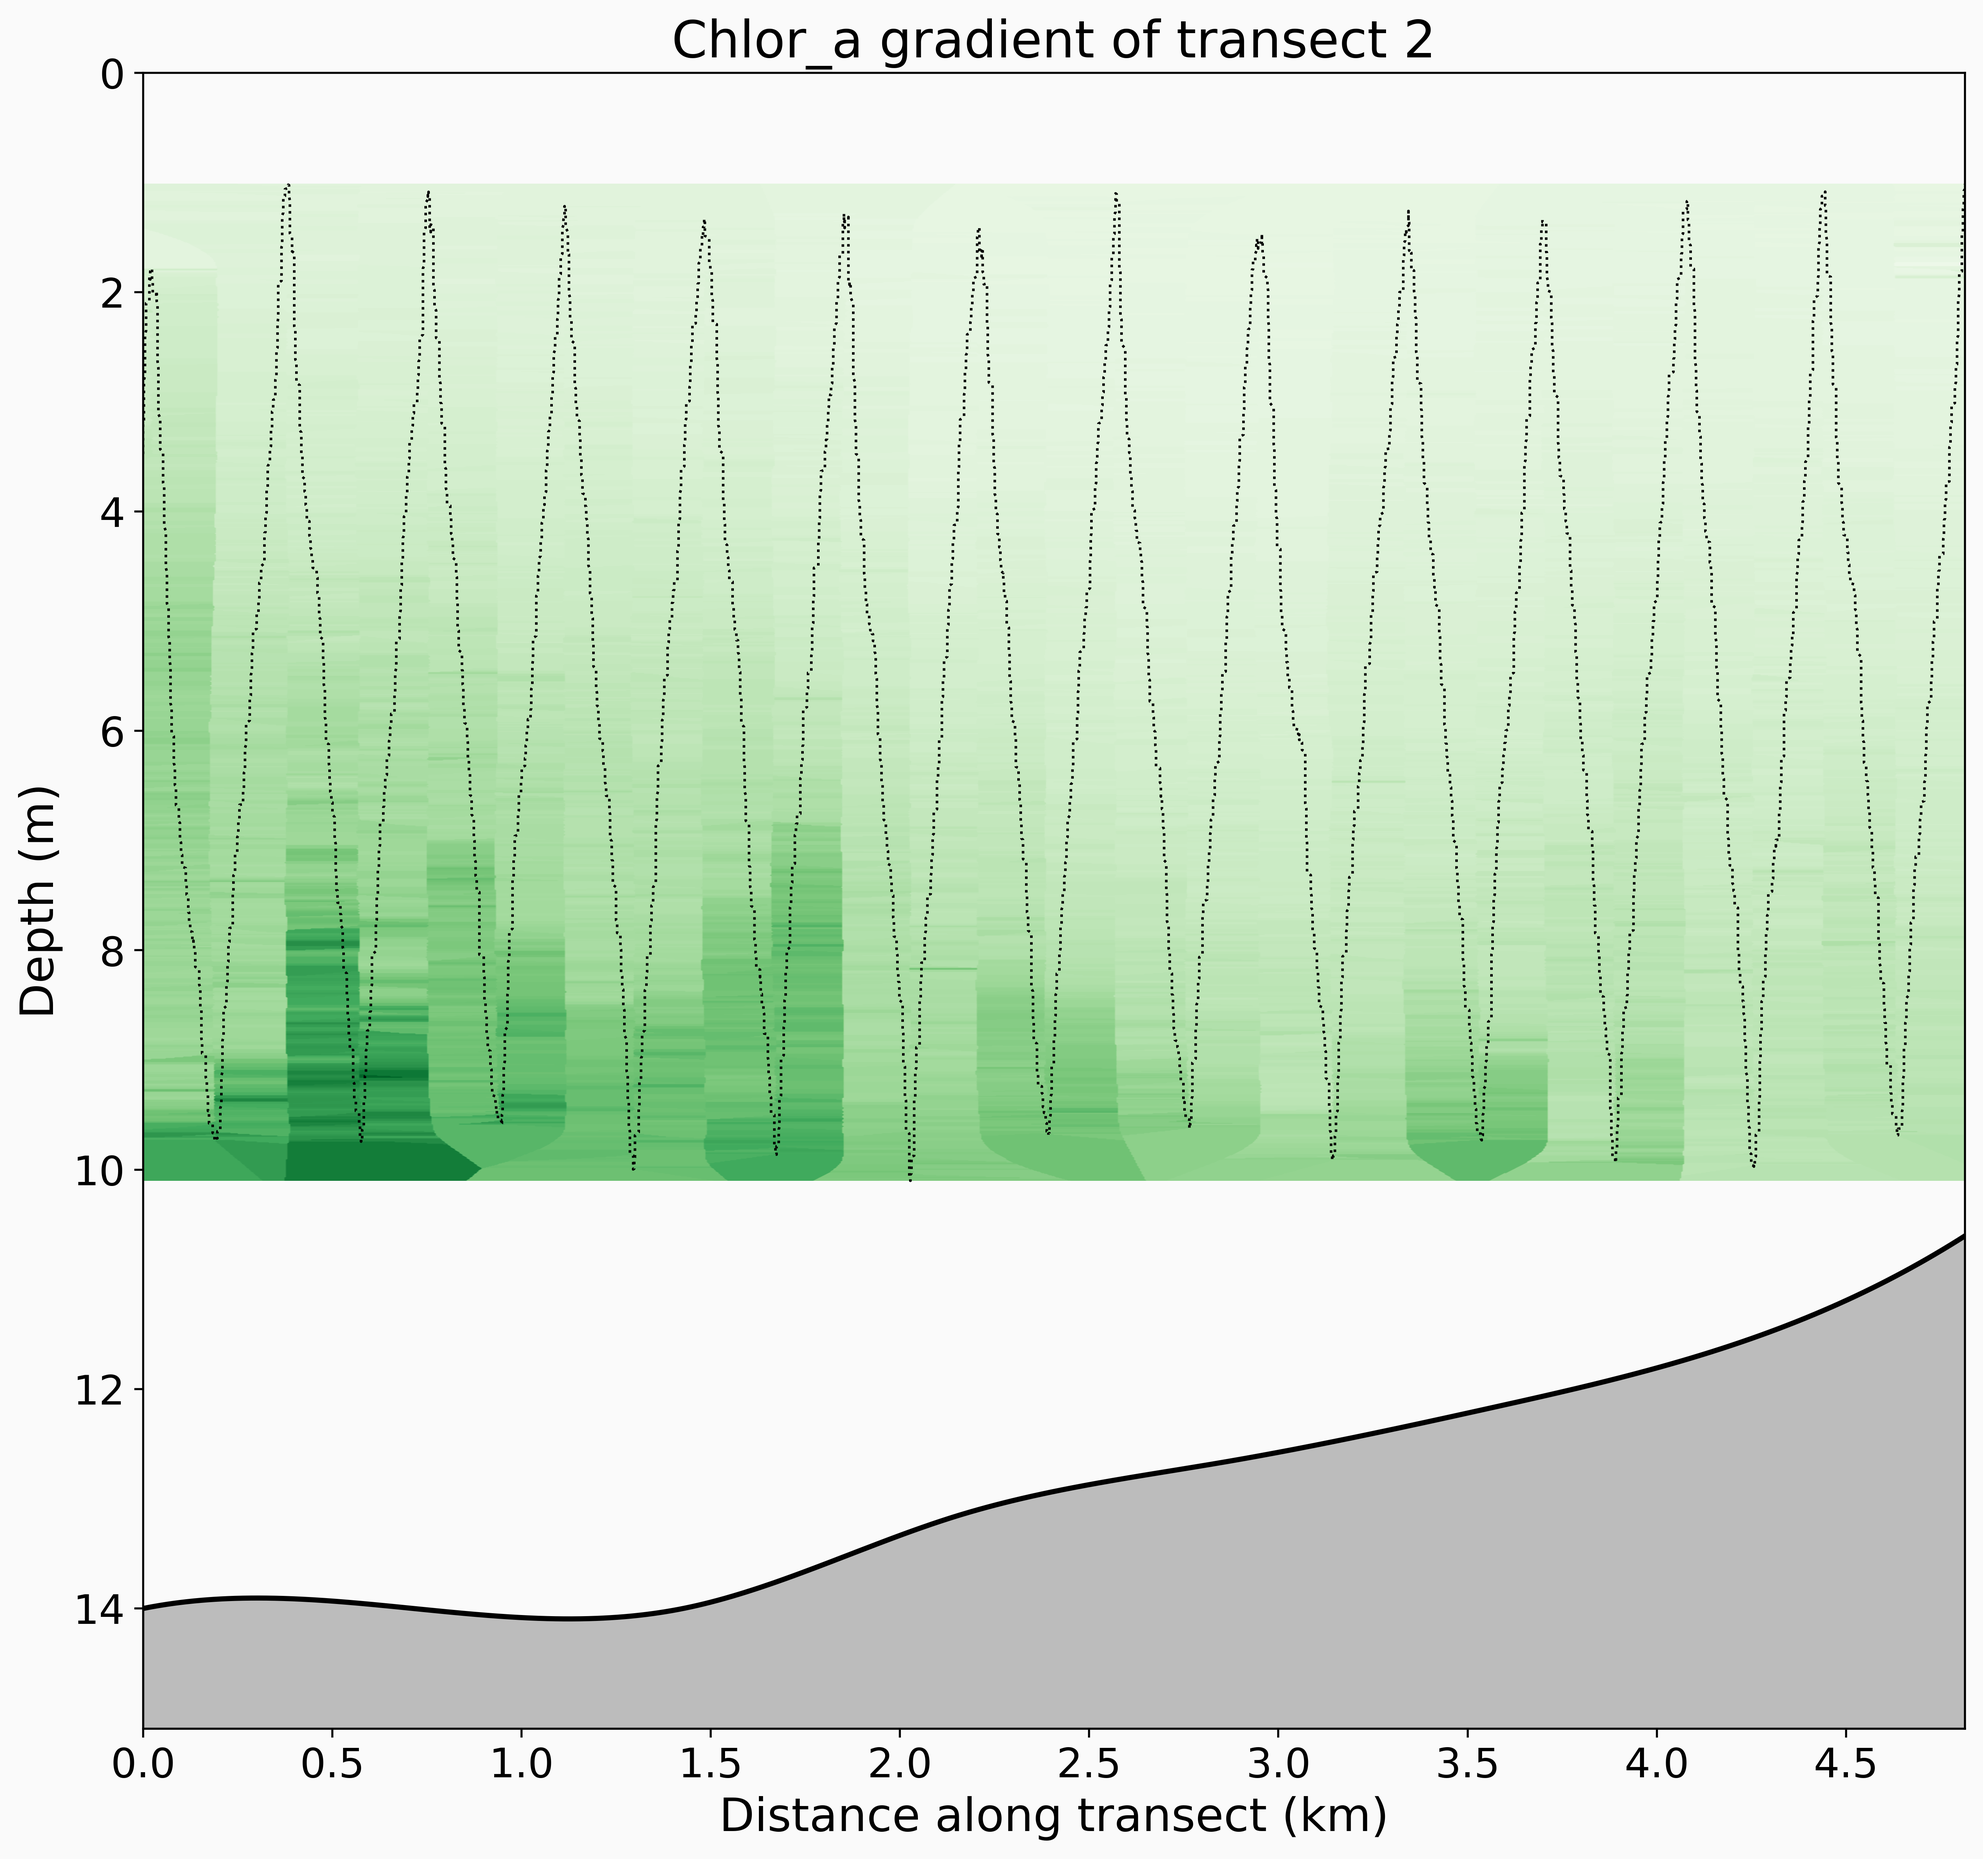
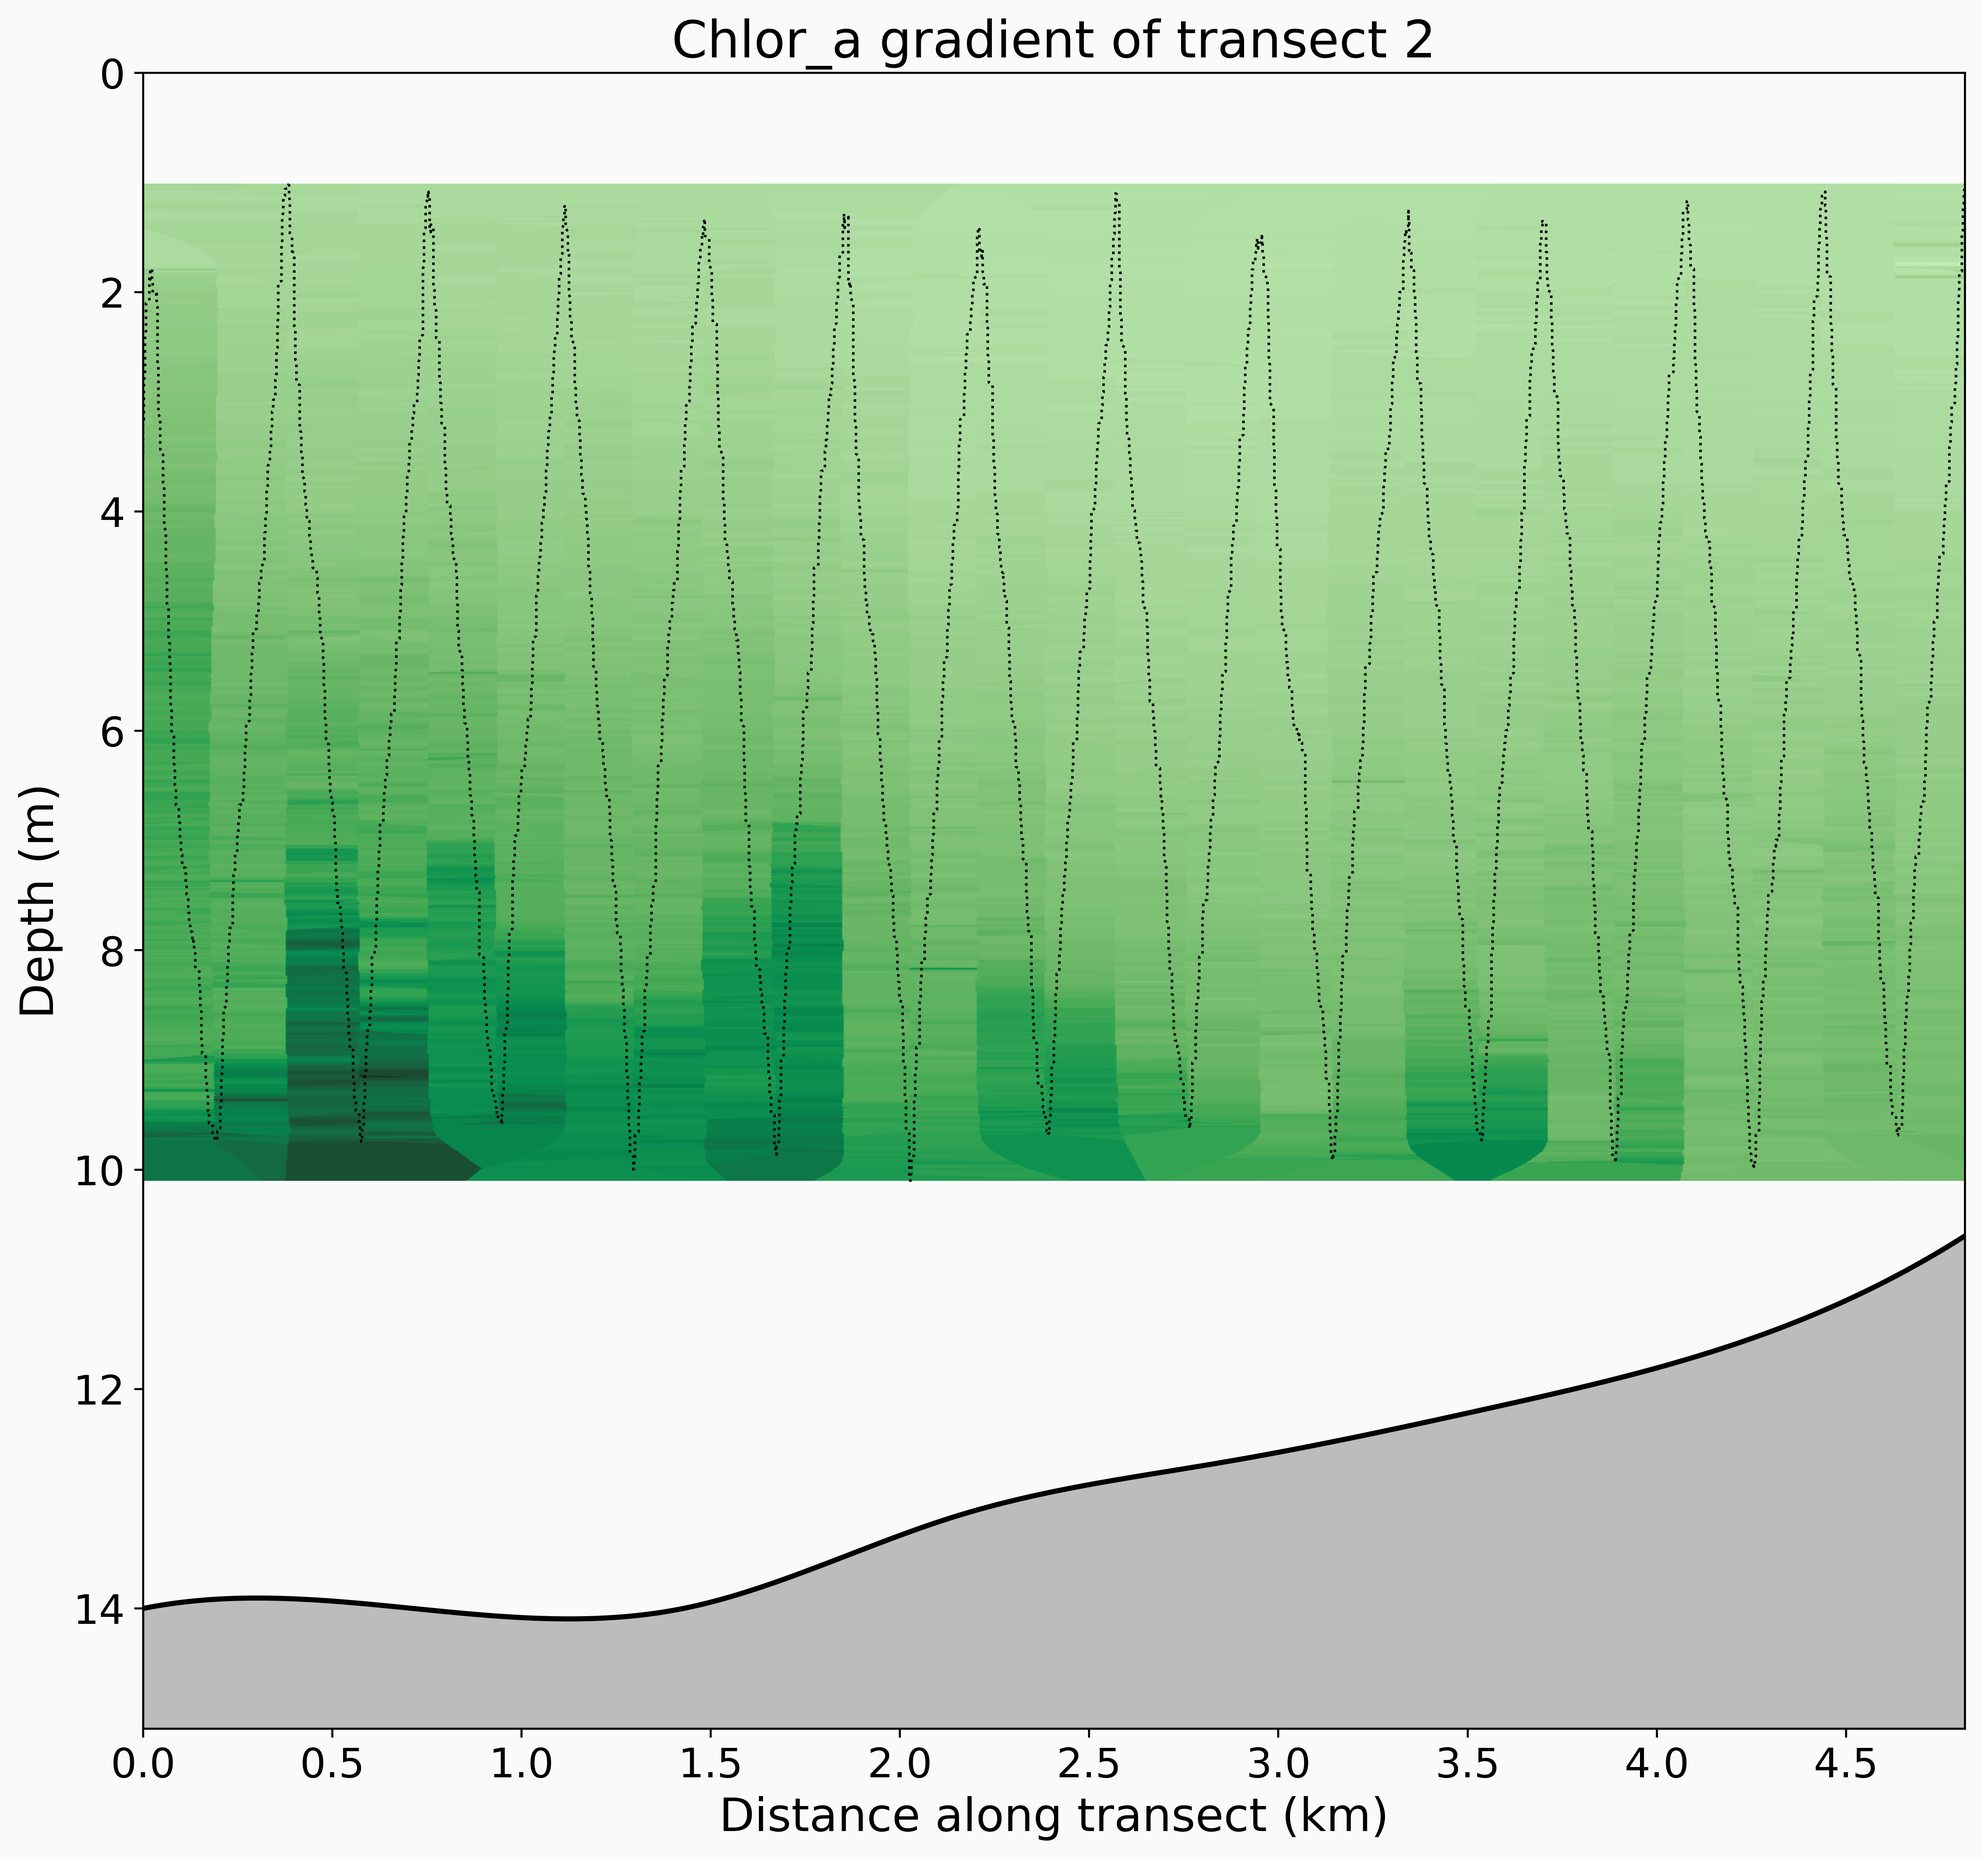
spring cleaning

diff --git a/python_programs/2D_contours.py b/python_programs/2D_contours.py
@@ -1,4 +1,3 @@
-
 import numpy as np
 import matplotlib.pyplot as plt
 import pandas as pd
@@ -12,11 +11,11 @@ from matplotlib.ticker import FormatStrFormatter
 from matplotlib.colors import LogNorm
 
 INTERPOLATION_METHOD = 'linear'     # options are linear, cubic, or nearest.
-DATA_TYPE = 'chlor_a'              # options only chlor_a.
+DATA_TYPE = 'chlor_a'               # options are temp, salinity, density, turbidity, cdom, chlor_a, ox_sat.
 
 SHOW_TRANSECT_TITLE = True          # Set to False to hide transect titles.
 SHOW_AXES_TITLES = True             # Set to False to hide axes titles.
-SHOW_COLORBAR = False                # Set to False to hide the colorbar.
+SHOW_COLORBAR = False               # Set to False to hide the colorbar.
 ENABLE_CONTOUR_OVERLAY = False      # Set to False to disable contour overlay.
 CONTOUR_LEVELS = {
     'temp': [20, 25],
@@ -125,23 +124,34 @@ def plot_transect_gradients(file_names, bathymetry_data, transform, global_min, 
         max_distance = max(max_distance, accumulated_distance[-1])
         df['normalized_distance'] = accumulated_distance
 
-        # Initialize figure and axes for plotting
-        fig, ax = plt.subplots(figsize=(base_plot_width, base_plot_height))
-        ax.set_facecolor('#FAFAFA')  # Set the axes' background color
-
-        # Setup for the plotting based on DATA_TYPE
-        if DATA_TYPE == 'chlor_a':
+        # Dynamically define colormap and data label based on DATA_TYPE
+        if DATA_TYPE == 'temp':
+            colormap = cmocean.cm.thermal
+            data_label = 'Temperature (°C)'
+        elif DATA_TYPE == 'salinity':
+            colormap = cmocean.cm.haline
+            data_label = 'Salinity (PSU)'
+        elif DATA_TYPE == 'density':
+            colormap = cmocean.cm.dense
+            data_label = 'Density (kg/m³)'
+        elif DATA_TYPE == 'turbidity':
+            colormap = cmocean.cm.turbid
+            data_label = 'Turbidity (NTU)'
+        elif DATA_TYPE == 'cdom':
+            colormap = cmocean.cm.matter
+            data_label = 'CDOM'
+        elif DATA_TYPE == 'chlor_a':
             colormap = plt.cm.Greens
             data_label = 'Chlorophyll a (µg/L)'
             # Define fixed_min and fixed_max for chlorophyll a visualization
             fixed_min = 0.1  # Minimum value for the color scale
             fixed_max = 5.5  # Maximum value for the color scale
             norm = LogNorm(vmin=fixed_min, vmax=fixed_max)  # Using LogNorm for chlor_a
+        elif DATA_TYPE == 'ox_sat':
+            colormap = cmocean.cm.oxy
+            data_label = 'Oxygen Saturation (%)'
         else:
-            # Setup for other DATA_TYPEs as needed, with their own colormaps and normalization
-            # For simplicity, this example uses a generic setup
-            colormap = cmocean.cm.algae
-            norm = None  # Default to linear normalization for other data types
+            colormap = cmocean.cm.haline  # Default colormap
             data_label = f'{DATA_TYPE.capitalize()} value'
             
         # Initialize max_depth based on the depth data

diff --git a/python_programs/colorbar.py b/python_programs/colorbar.py
@@ -1,6 +1,7 @@
 import matplotlib.pyplot as plt
 from matplotlib.colors import Normalize
 import numpy as np
+import cmocean
 import os
 
 SCRIPT_DIR = os.path.dirname(os.path.abspath(__file__))
